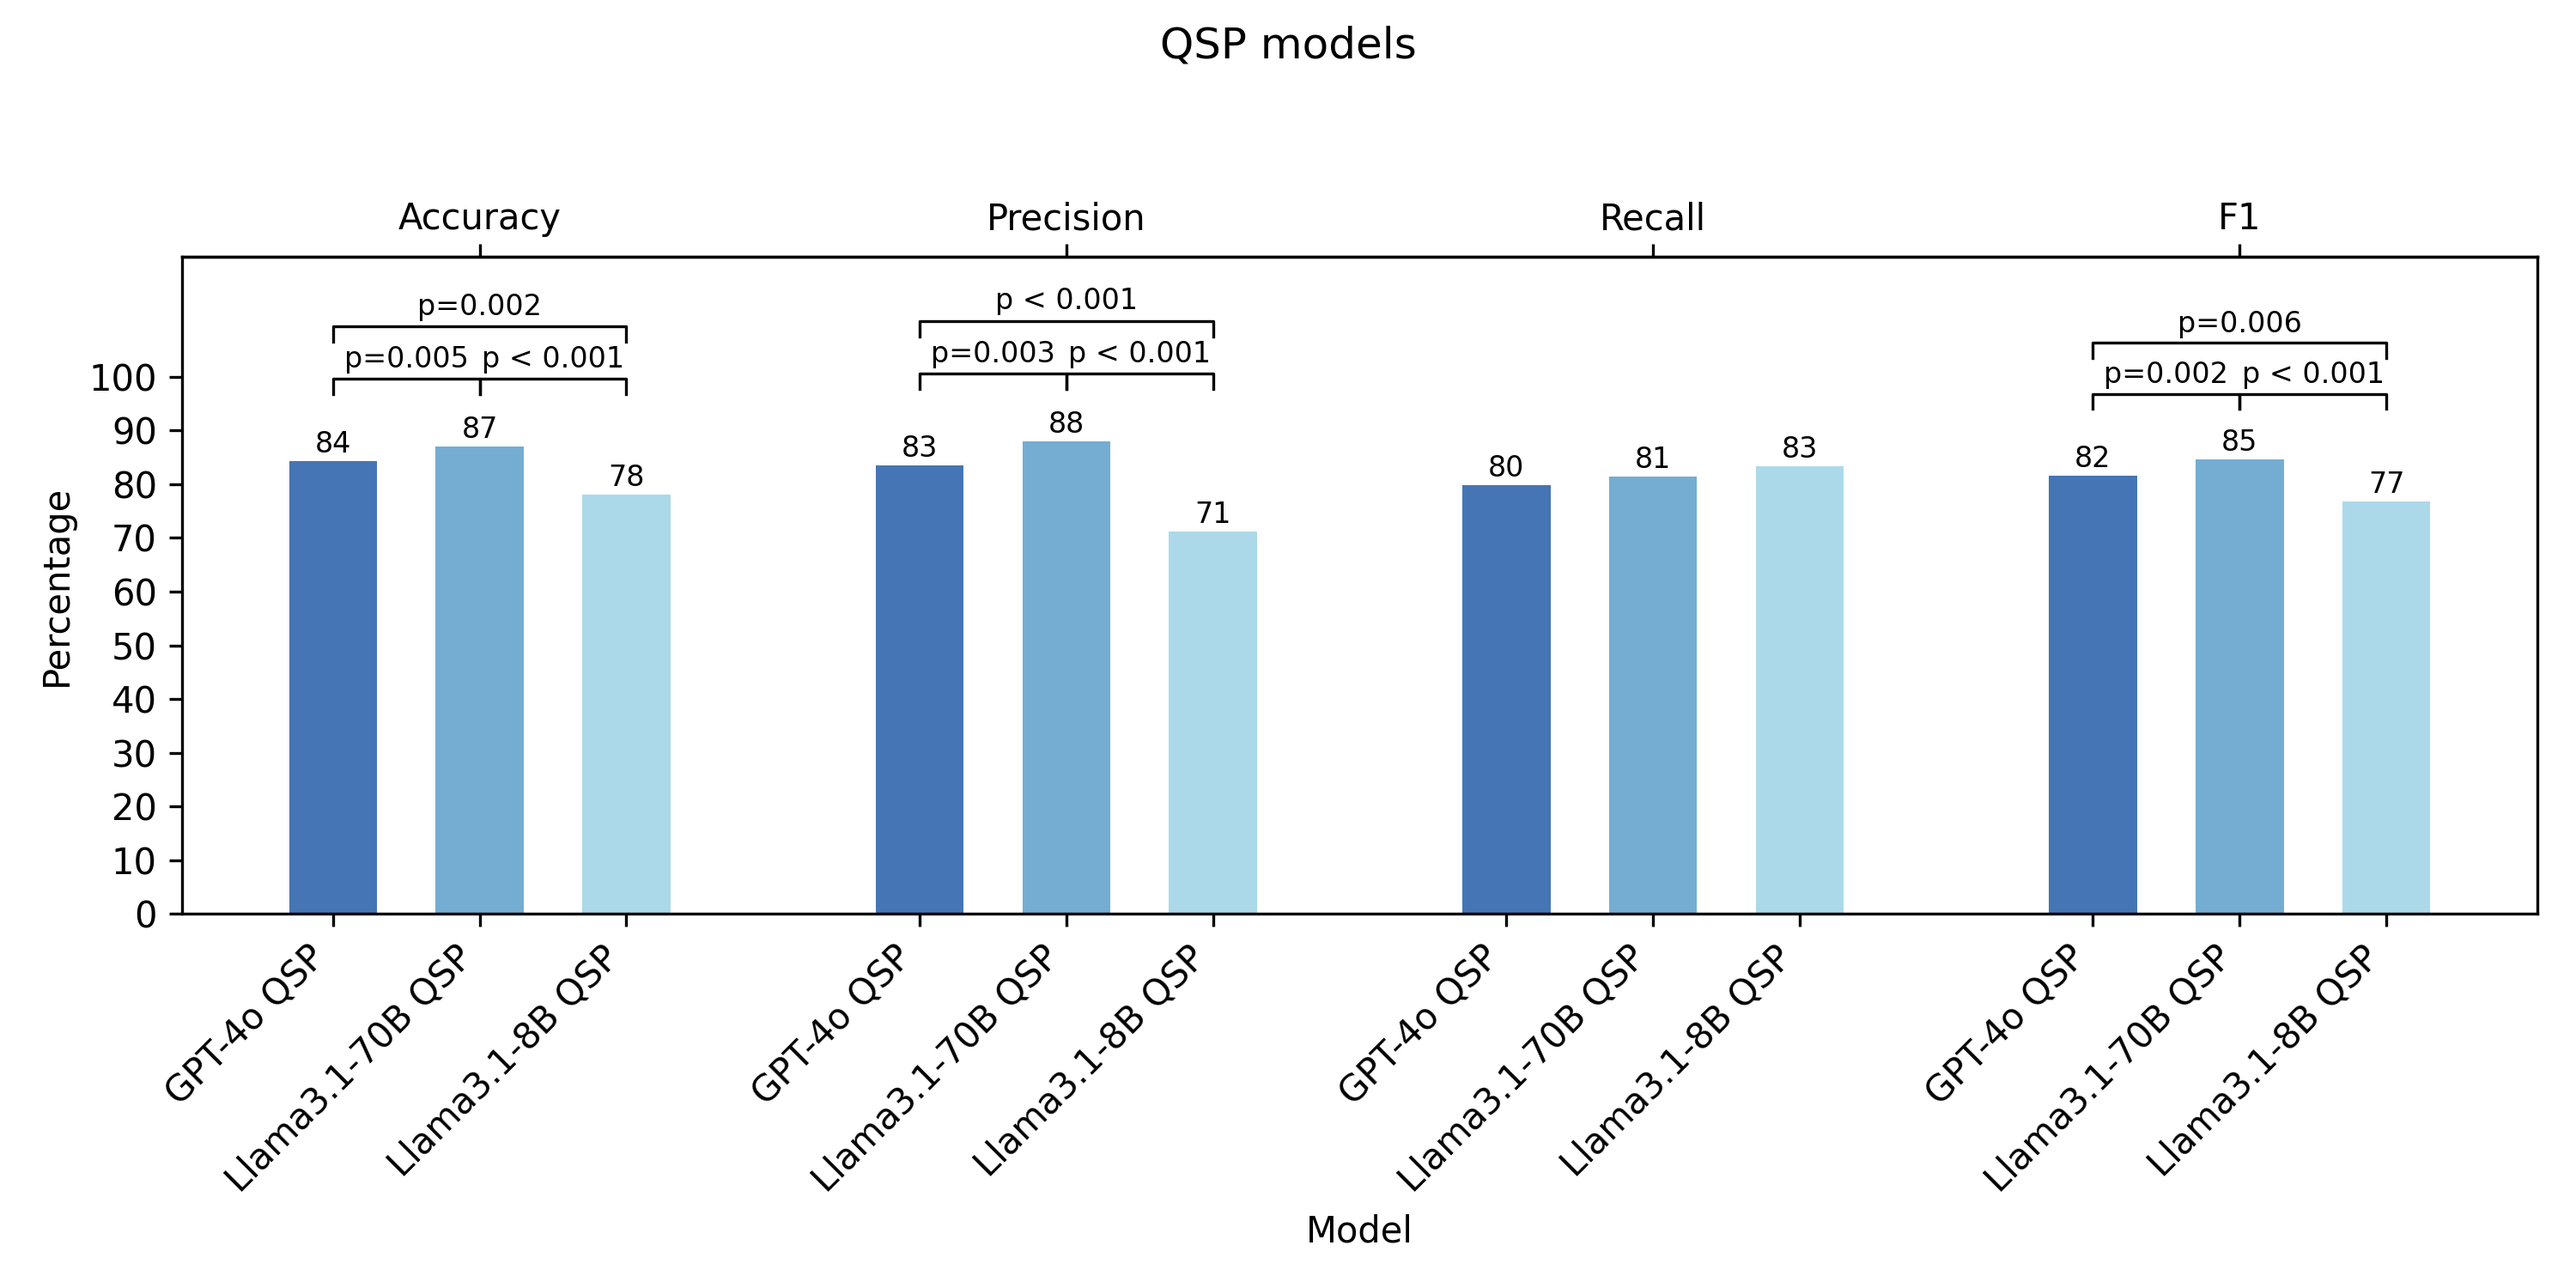
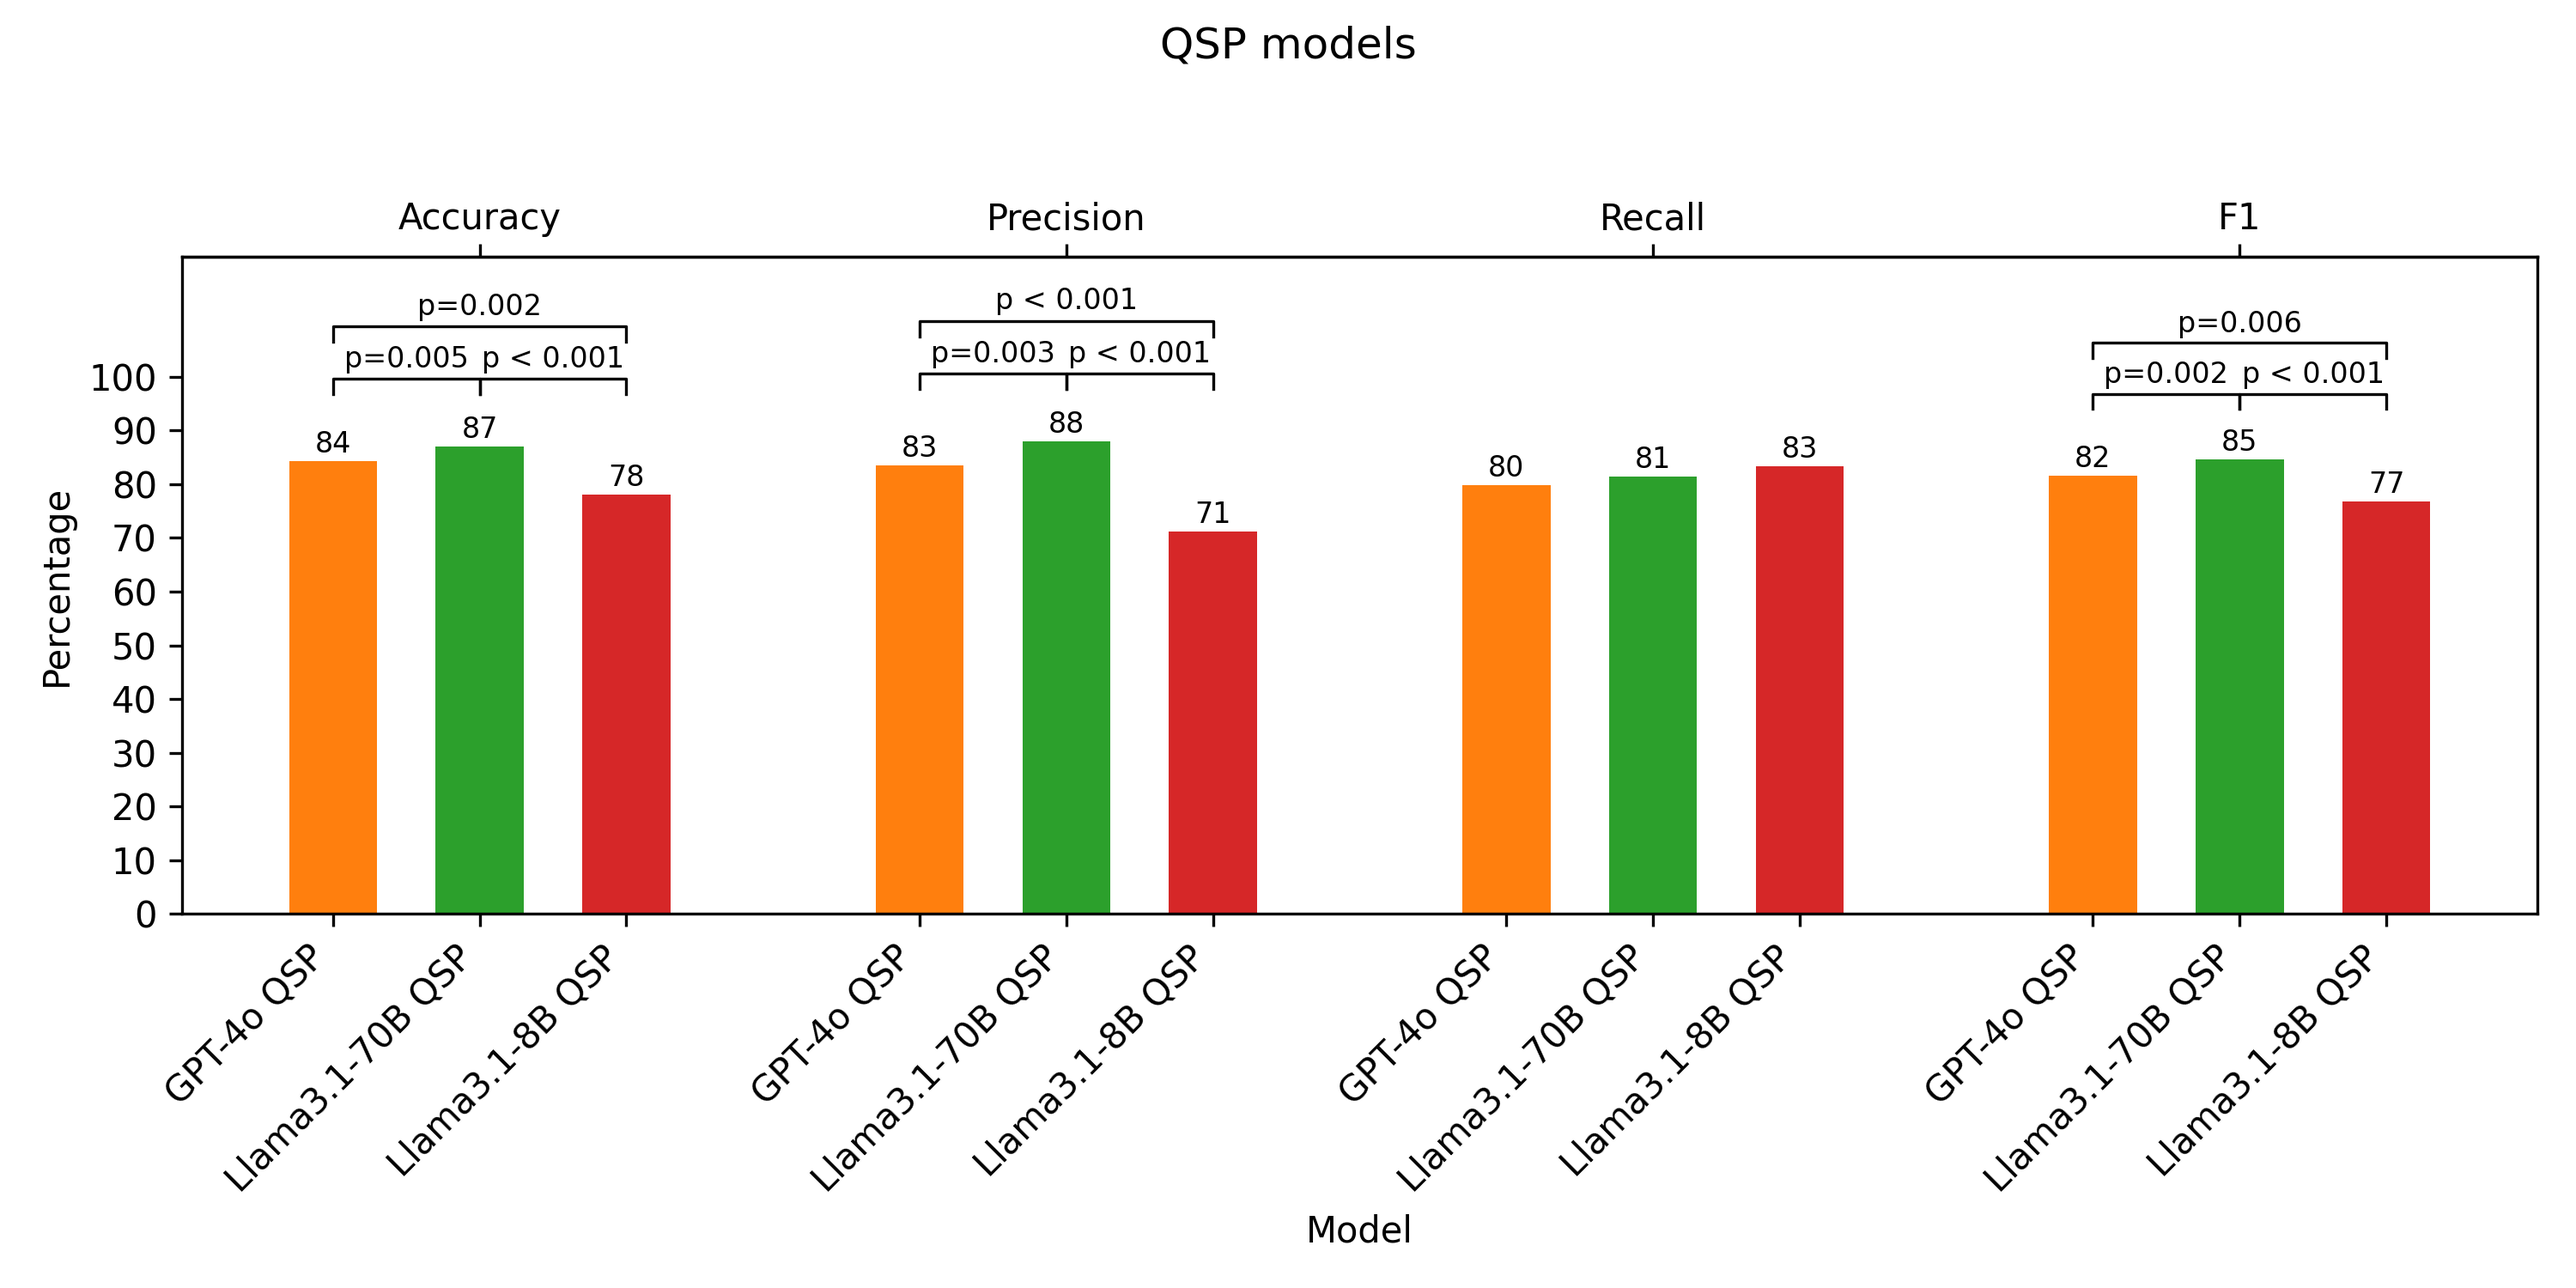
update inter model comparison color

diff --git a/inter_model_compare/generate_three_figures.py b/inter_model_compare/generate_three_figures.py
@@ -205,7 +205,7 @@ def plot_figure(
     fig, ax = plt.subplots(figsize=(10, 5))
     fig.suptitle(title)
 
-    colors = ["#4575b4", "#74add1", "#abd9e9"]
+    colors = ["#ff7f0e", "#2ca02c", "#d62728"]
     group_width = len(models) + 1  # spacing between metric groups
 
     x_ticks = []
